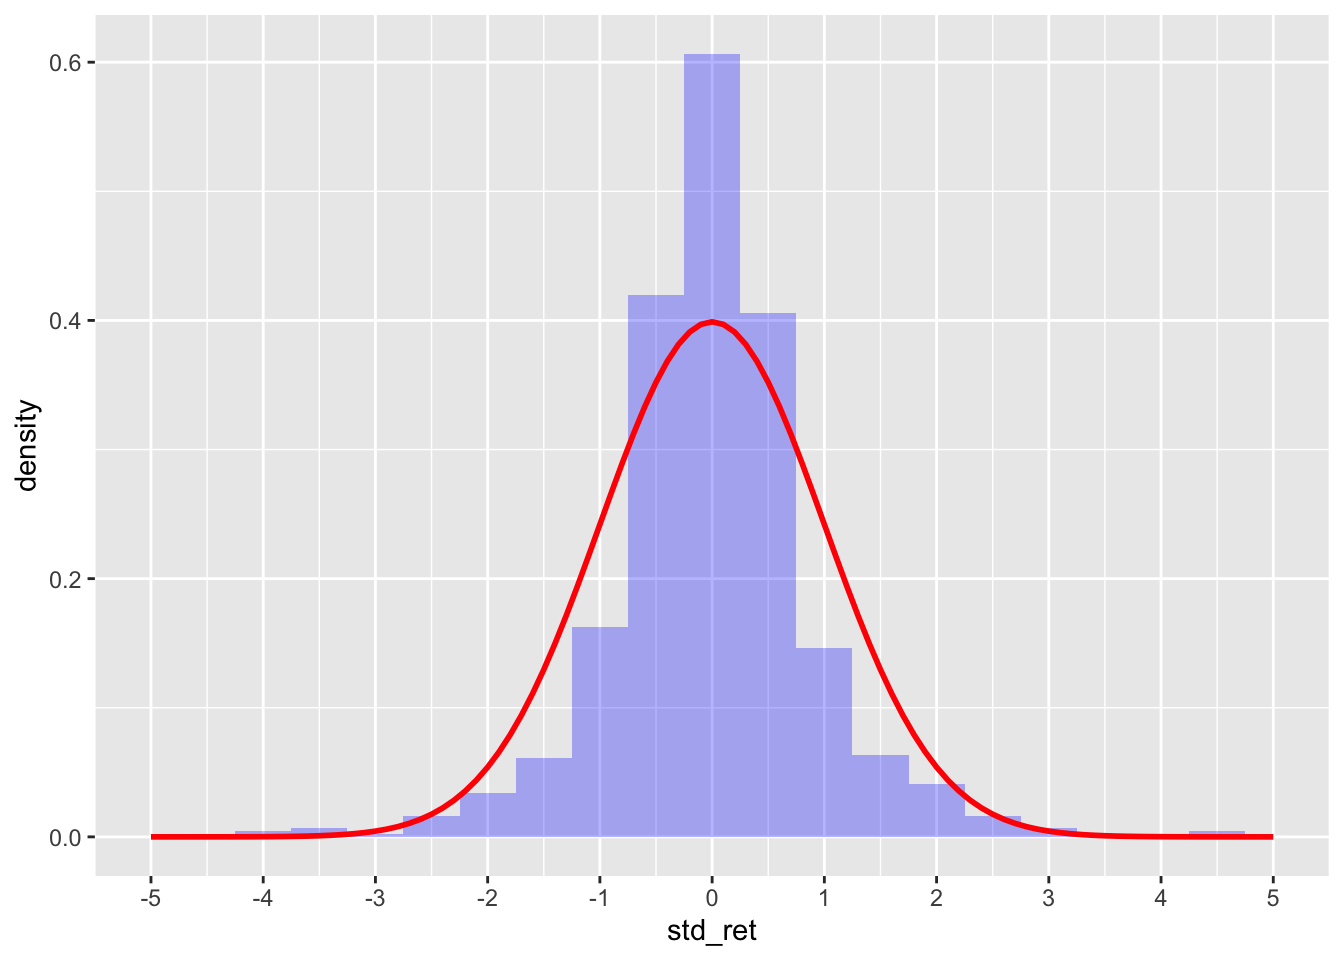
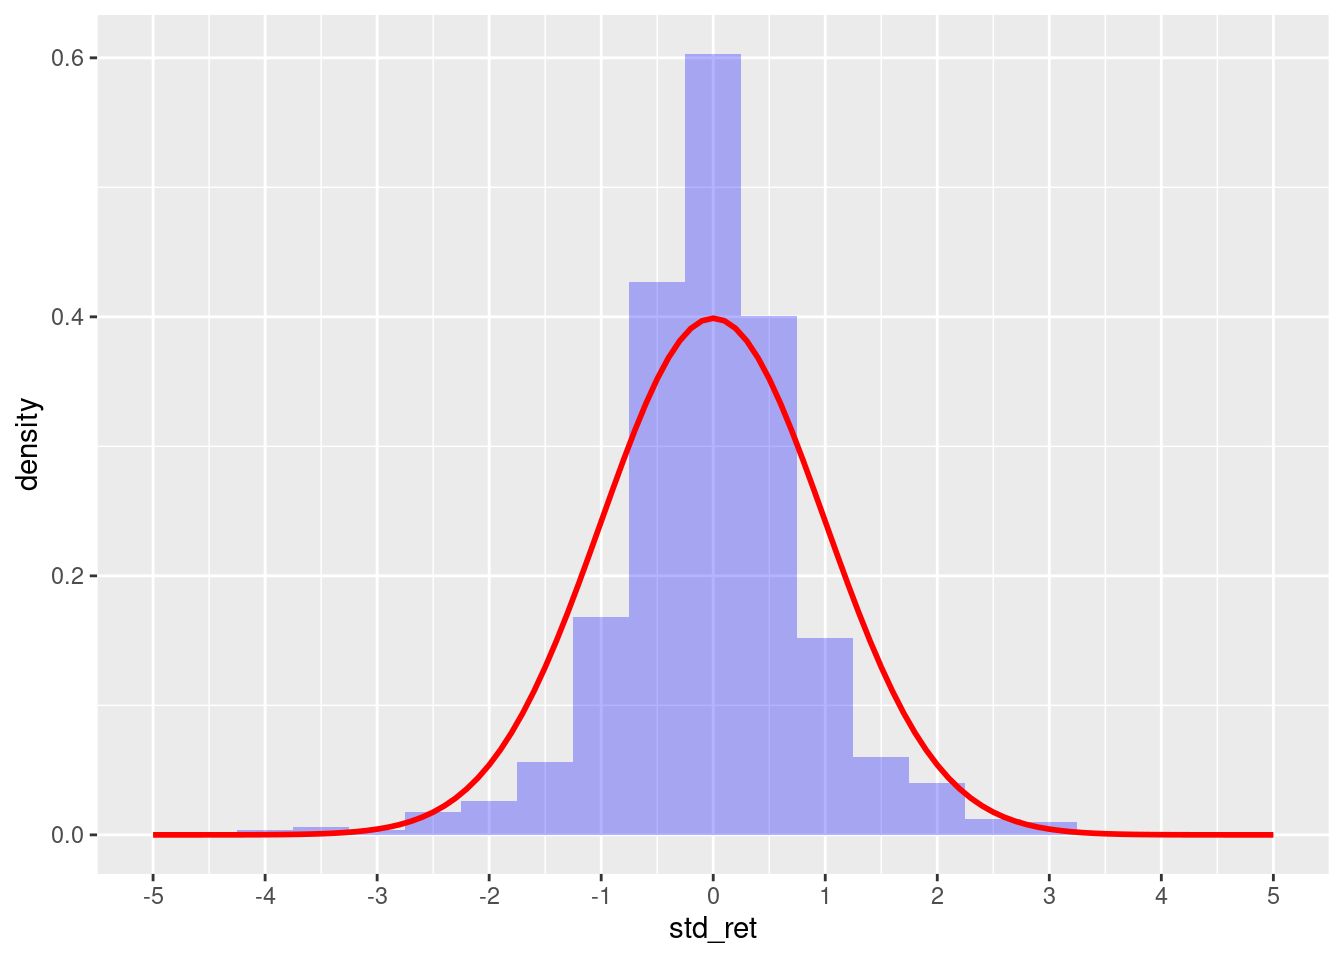
adding a bit on autocorrelation with pacf in R and python

diff --git a/docs/posts/random-behavior-assets/index.html b/docs/posts/random-behavior-assets/index.html
@@ -218,7 +218,10 @@ code span.wa { color: #60a0b0; font-weight: bold; font-style: italic; } /* Warni
   <li><a href="#considering-randomness" id="toc-considering-randomness" class="nav-link" data-scroll-target="#considering-randomness">Considering randomness</a></li>
   <li><a href="#going-to-continuous-time" id="toc-going-to-continuous-time" class="nav-link" data-scroll-target="#going-to-continuous-time">Going to continuous time</a></li>
   </ul></li>
-  <li><a href="#practice-in-r" id="toc-practice-in-r" class="nav-link" data-scroll-target="#practice-in-r">Practice in R</a></li>
+  <li><a href="#practice-in-r" id="toc-practice-in-r" class="nav-link" data-scroll-target="#practice-in-r">Practice in R</a>
+  <ul class="collapse">
+  <li><a href="#the-euler-maruyana-method-to-compute-the-sde" id="toc-the-euler-maruyana-method-to-compute-the-sde" class="nav-link" data-scroll-target="#the-euler-maruyana-method-to-compute-the-sde">The Euler-Maruyana Method to compute the SDE</a></li>
+  </ul></li>
   </ul>
 </nav>
 </nav>
@@ -285,7 +288,7 @@ code span.wa { color: #60a0b0; font-weight: bold; font-style: italic; } /* Warni
 <i class="callout-icon no-icon"></i>
 </div>
 <div class="callout-body-container">
-<p><span id="eq-asset-price3"><span class="math display">\[S_{i+1} = S_i \cdot (1 +  \mu \delta t) + S_i \sigma \phi \delta t^{1/2} \tag{6}\]</span></span></p>
+<p><span id="eq-asset-price3"><span class="math display">\[S_{i+1} = S_i \cdot (1 +  \mu \delta t +  \sigma \phi \sqrt{\delta t}) \tag{6}\]</span></span></p>
 <p>This last <a href="#eq-asset-price3">Equation&nbsp;6</a> is the basis for Monte-Carlo simulation.</p>
 <ul>
 <li>Notice the standard deviation of return: <span class="math inline">\(\sigma \sqrt{\delta t}\)</span></li>
@@ -336,25 +339,27 @@ code span.wa { color: #60a0b0; font-weight: bold; font-style: italic; } /* Warni
 <span id="cb1-4"><a href="#cb1-4" aria-hidden="true" tabindex="-1"></a></span>
 <span id="cb1-5"><a href="#cb1-5" aria-hidden="true" tabindex="-1"></a>df <span class="ot">&lt;-</span> <span class="fu">read_csv</span>(<span class="st">'../../raw_data/SBUX.csv'</span>) <span class="sc">|&gt;</span> </span>
 <span id="cb1-6"><a href="#cb1-6" aria-hidden="true" tabindex="-1"></a>  <span class="fu">select</span>(date, adjClose) <span class="sc">|&gt;</span> </span>
-<span id="cb1-7"><a href="#cb1-7" aria-hidden="true" tabindex="-1"></a>  <span class="fu">filter</span>(date <span class="sc">&gt;</span> <span class="st">'2019-10-01'</span>) <span class="sc">|&gt;</span> <span class="fu">drop_na</span>() <span class="sc">|&gt;</span></span>
+<span id="cb1-7"><a href="#cb1-7" aria-hidden="true" tabindex="-1"></a>  <span class="fu">filter</span>(date <span class="sc">&gt;</span> <span class="st">'2019-07-01'</span>) <span class="sc">|&gt;</span> <span class="fu">drop_na</span>() <span class="sc">|&gt;</span></span>
 <span id="cb1-8"><a href="#cb1-8" aria-hidden="true" tabindex="-1"></a>  <span class="fu">mutate</span>(<span class="at">ret =</span> (adjClose <span class="sc">-</span> <span class="fu">lag</span>(adjClose)) <span class="sc">/</span> <span class="fu">lag</span>(adjClose))</span>
 <span id="cb1-9"><a href="#cb1-9" aria-hidden="true" tabindex="-1"></a></span>
 <span id="cb1-10"><a href="#cb1-10" aria-hidden="true" tabindex="-1"></a>r_bar <span class="ot">=</span> <span class="fu">mean</span>(df<span class="sc">$</span>ret, <span class="at">na.rm =</span> T)</span>
 <span id="cb1-11"><a href="#cb1-11" aria-hidden="true" tabindex="-1"></a>stdev <span class="ot">=</span> <span class="fu">sd</span>(df<span class="sc">$</span>ret, <span class="at">na.rm =</span> T)</span>
 <span id="cb1-12"><a href="#cb1-12" aria-hidden="true" tabindex="-1"></a></span>
-<span id="cb1-13"><a href="#cb1-13" aria-hidden="true" tabindex="-1"></a>mu <span class="ot">=</span> r_bar <span class="sc">/</span> (<span class="dv">1</span><span class="sc">/</span><span class="dv">252</span>)</span>
-<span id="cb1-14"><a href="#cb1-14" aria-hidden="true" tabindex="-1"></a>sigma <span class="ot">=</span> stdev <span class="sc">/</span> <span class="fu">sqrt</span>(<span class="dv">1</span><span class="sc">/</span><span class="dv">252</span>)</span>
-<span id="cb1-15"><a href="#cb1-15" aria-hidden="true" tabindex="-1"></a></span>
-<span id="cb1-16"><a href="#cb1-16" aria-hidden="true" tabindex="-1"></a>r_bar</span></code><button title="Copy to Clipboard" class="code-copy-button"><i class="bi"></i></button></pre></div>
+<span id="cb1-13"><a href="#cb1-13" aria-hidden="true" tabindex="-1"></a>delta_t <span class="ot">=</span> <span class="dv">1</span><span class="sc">/</span><span class="dv">252</span></span>
+<span id="cb1-14"><a href="#cb1-14" aria-hidden="true" tabindex="-1"></a></span>
+<span id="cb1-15"><a href="#cb1-15" aria-hidden="true" tabindex="-1"></a>mu <span class="ot">=</span> r_bar <span class="sc">/</span> delta_t</span>
+<span id="cb1-16"><a href="#cb1-16" aria-hidden="true" tabindex="-1"></a>sigma <span class="ot">=</span> stdev <span class="sc">/</span> <span class="fu">sqrt</span>(delta_t)</span>
+<span id="cb1-17"><a href="#cb1-17" aria-hidden="true" tabindex="-1"></a></span>
+<span id="cb1-18"><a href="#cb1-18" aria-hidden="true" tabindex="-1"></a>r_bar</span></code><button title="Copy to Clipboard" class="code-copy-button"><i class="bi"></i></button></pre></div>
 <div class="cell-output cell-output-stdout">
-<pre><code>[1] -0.0001341147</code></pre>
+<pre><code>[1] -1.073652e-06</code></pre>
 </div>
 <div class="sourceCode cell-code" id="cb3"><pre class="sourceCode r code-with-copy"><code class="sourceCode r"><span id="cb3-1"><a href="#cb3-1" aria-hidden="true" tabindex="-1"></a>stdev</span></code><button title="Copy to Clipboard" class="code-copy-button"><i class="bi"></i></button></pre></div>
 <div class="cell-output cell-output-stdout">
-<pre><code>[1] 0.02133465</code></pre>
+<pre><code>[1] 0.02092624</code></pre>
 </div>
 </div>
-<p>Knowing the average daily return of SBUX over the last 3-ish year and using <span class="math inline">\(\bar{R} = \mu \delta t\)</span> , or <span class="math inline">\(\mu = \frac{\bar{R}}{\delta t}\)</span> and in our case <span class="math inline">\(\delta t = \frac{1}{252}\)</span>; we find the average annualized returns <span class="math inline">\(\mu\)</span> is: -3.38 % with standard deviation <span class="math inline">\(\sigma\)</span> of 33.9 % annualized.</p>
+<p>Knowing the average daily return of SBUX over the last 3-ish year and using <span class="math inline">\(\bar{R} = \mu \delta t\)</span> , or <span class="math inline">\(\mu = \frac{\bar{R}}{\delta t}\)</span> and in our case <span class="math inline">\(\delta t = \frac{1}{252}\)</span>; we find the average annualized returns <span class="math inline">\(\mu\)</span> is: -0.027 % with standard deviation <span class="math inline">\(\sigma\)</span> of 33.2 % annualized.</p>
 <p>We could plot the returns and the std of returns</p>
 <div class="cell">
 <div class="sourceCode cell-code" id="cb5"><pre class="sourceCode r code-with-copy"><code class="sourceCode r"><span id="cb5-1"><a href="#cb5-1" aria-hidden="true" tabindex="-1"></a><span class="fu">library</span>(ggplot2)</span>
@@ -387,8 +392,67 @@ code span.wa { color: #60a0b0; font-weight: bold; font-style: italic; } /* Warni
 </div>
 </div>
 <p>This graph exemplifies what is very common with asset returns: fat tail, and under representation of returns just outside the mean. We discuss this further in our post: <a href="../../posts/normality-returns/index.html">The normality of asset returns</a></p>
+<section id="the-euler-maruyana-method-to-compute-the-sde" class="level2">
+<h2 class="anchored" data-anchor-id="the-euler-maruyana-method-to-compute-the-sde">The Euler-Maruyana Method to compute the SDE</h2>
+<p>We start with <a href="#eq-asset-price3">Equation&nbsp;6</a> : <span class="math inline">\(S_{i+1} = S_i \cdot (1 + \mu \delta t + \sigma \phi \sqrt{\delta t})\)</span></p>
+<div class="cell">
+<div class="sourceCode cell-code" id="cb7"><pre class="sourceCode r code-with-copy"><code class="sourceCode r"><span id="cb7-1"><a href="#cb7-1" aria-hidden="true" tabindex="-1"></a><span class="co"># create one simulation for price </span></span>
+<span id="cb7-2"><a href="#cb7-2" aria-hidden="true" tabindex="-1"></a>ndays <span class="ot">&lt;-</span> <span class="dv">252</span> </span>
+<span id="cb7-3"><a href="#cb7-3" aria-hidden="true" tabindex="-1"></a>price <span class="ot">&lt;-</span> <span class="fu">c</span>()</span>
+<span id="cb7-4"><a href="#cb7-4" aria-hidden="true" tabindex="-1"></a>price[<span class="dv">1</span>] <span class="ot">&lt;-</span> <span class="fu">last</span>(df<span class="sc">$</span>adjClose)</span>
+<span id="cb7-5"><a href="#cb7-5" aria-hidden="true" tabindex="-1"></a></span>
+<span id="cb7-6"><a href="#cb7-6" aria-hidden="true" tabindex="-1"></a>phi <span class="ot">=</span> <span class="fu">rnorm</span>(ndays, <span class="at">mean =</span> <span class="dv">0</span>, <span class="at">sd =</span> <span class="dv">1</span>)</span>
+<span id="cb7-7"><a href="#cb7-7" aria-hidden="true" tabindex="-1"></a></span>
+<span id="cb7-8"><a href="#cb7-8" aria-hidden="true" tabindex="-1"></a><span class="cf">for</span> (i <span class="cf">in</span> <span class="dv">2</span><span class="sc">:</span>ndays){ </span>
+<span id="cb7-9"><a href="#cb7-9" aria-hidden="true" tabindex="-1"></a>  price[i] <span class="ot">=</span> price[i<span class="dv">-1</span>] <span class="sc">*</span> (<span class="dv">1</span> <span class="sc">+</span> mu <span class="sc">*</span> delta_t <span class="sc">+</span> sigma <span class="sc">*</span> phi[i] <span class="sc">*</span> <span class="fu">sqrt</span>(delta_t))</span>
+<span id="cb7-10"><a href="#cb7-10" aria-hidden="true" tabindex="-1"></a>}</span>
+<span id="cb7-11"><a href="#cb7-11" aria-hidden="true" tabindex="-1"></a></span>
+<span id="cb7-12"><a href="#cb7-12" aria-hidden="true" tabindex="-1"></a>yo <span class="ot">&lt;-</span> <span class="fu">tibble</span>(<span class="at">x =</span> <span class="dv">1</span><span class="sc">:</span>ndays, <span class="at">price =</span> price)</span>
+<span id="cb7-13"><a href="#cb7-13" aria-hidden="true" tabindex="-1"></a><span class="fu">ggplot</span>(yo, <span class="fu">aes</span>(x, price)) <span class="sc">+</span> </span>
+<span id="cb7-14"><a href="#cb7-14" aria-hidden="true" tabindex="-1"></a>  <span class="fu">geom_line</span>()</span></code><button title="Copy to Clipboard" class="code-copy-button"><i class="bi"></i></button></pre></div>
+<div class="cell-output-display">
+<p><img src="index_files/figure-html/unnamed-chunk-4-1.png" class="img-fluid" width="672"></p>
+</div>
+</div>
+<p>We can now create 100’s such simulations re-using previous code in a function.</p>
+<div class="cell">
+<div class="sourceCode cell-code" id="cb8"><pre class="sourceCode r code-with-copy"><code class="sourceCode r"><span id="cb8-1"><a href="#cb8-1" aria-hidden="true" tabindex="-1"></a>create_price_simul <span class="ot">&lt;-</span> <span class="cf">function</span>(x) {</span>
+<span id="cb8-2"><a href="#cb8-2" aria-hidden="true" tabindex="-1"></a>  price <span class="ot">&lt;-</span> <span class="fu">c</span>() </span>
+<span id="cb8-3"><a href="#cb8-3" aria-hidden="true" tabindex="-1"></a>  price[<span class="dv">1</span>] <span class="ot">&lt;-</span> <span class="fu">last</span>(df<span class="sc">$</span>adjClose) </span>
+<span id="cb8-4"><a href="#cb8-4" aria-hidden="true" tabindex="-1"></a>  phi <span class="ot">=</span> <span class="fu">rnorm</span>(ndays, <span class="at">mean =</span> <span class="dv">0</span>, <span class="at">sd =</span> <span class="dv">1</span>) </span>
+<span id="cb8-5"><a href="#cb8-5" aria-hidden="true" tabindex="-1"></a>  <span class="cf">for</span> (i <span class="cf">in</span> <span class="dv">2</span><span class="sc">:</span>ndays){ </span>
+<span id="cb8-6"><a href="#cb8-6" aria-hidden="true" tabindex="-1"></a>    price[i] <span class="ot">=</span> price[i<span class="dv">-1</span>] <span class="sc">*</span> (<span class="dv">1</span> <span class="sc">+</span> mu <span class="sc">*</span> delta_t <span class="sc">+</span> sigma <span class="sc">*</span> phi[i] <span class="sc">*</span> <span class="fu">sqrt</span>(delta_t)) </span>
+<span id="cb8-7"><a href="#cb8-7" aria-hidden="true" tabindex="-1"></a>    } </span>
+<span id="cb8-8"><a href="#cb8-8" aria-hidden="true" tabindex="-1"></a>  yo <span class="ot">&lt;-</span> <span class="fu">tibble</span>(<span class="at">x =</span> <span class="dv">1</span><span class="sc">:</span>ndays, <span class="at">price =</span> price)</span>
+<span id="cb8-9"><a href="#cb8-9" aria-hidden="true" tabindex="-1"></a>  <span class="fu">return</span>(yo)</span>
+<span id="cb8-10"><a href="#cb8-10" aria-hidden="true" tabindex="-1"></a>}</span>
+<span id="cb8-11"><a href="#cb8-11" aria-hidden="true" tabindex="-1"></a></span>
+<span id="cb8-12"><a href="#cb8-12" aria-hidden="true" tabindex="-1"></a><span class="fu">library</span>(purrr)      <span class="co"># map()</span></span>
+<span id="cb8-13"><a href="#cb8-13" aria-hidden="true" tabindex="-1"></a><span class="fu">library</span>(RColorBrewer)</span>
+<span id="cb8-14"><a href="#cb8-14" aria-hidden="true" tabindex="-1"></a></span>
+<span id="cb8-15"><a href="#cb8-15" aria-hidden="true" tabindex="-1"></a>num_of_simul <span class="ot">&lt;-</span> <span class="dv">100</span></span>
+<span id="cb8-16"><a href="#cb8-16" aria-hidden="true" tabindex="-1"></a>df1 <span class="ot">&lt;-</span> <span class="fu">tibble</span>(<span class="at">simul_num =</span> <span class="dv">1</span><span class="sc">:</span>num_of_simul) <span class="sc">|&gt;</span> </span>
+<span id="cb8-17"><a href="#cb8-17" aria-hidden="true" tabindex="-1"></a>  <span class="fu">mutate</span>(<span class="at">prices =</span> <span class="fu">map</span>(simul_num, create_price_simul))</span>
+<span id="cb8-18"><a href="#cb8-18" aria-hidden="true" tabindex="-1"></a></span>
+<span id="cb8-19"><a href="#cb8-19" aria-hidden="true" tabindex="-1"></a>yo <span class="ot">&lt;-</span> df1 <span class="sc">|&gt;</span> <span class="fu">unnest</span>(<span class="at">cols =</span> <span class="fu">c</span>(prices))</span>
+<span id="cb8-20"><a href="#cb8-20" aria-hidden="true" tabindex="-1"></a></span>
+<span id="cb8-21"><a href="#cb8-21" aria-hidden="true" tabindex="-1"></a>getPalette <span class="ot">=</span> <span class="fu">colorRampPalette</span>(<span class="fu">brewer.pal</span>(<span class="dv">9</span>, <span class="st">"Set1"</span>))</span>
+<span id="cb8-22"><a href="#cb8-22" aria-hidden="true" tabindex="-1"></a>colourCount <span class="ot">=</span> num_of_simul</span>
+<span id="cb8-23"><a href="#cb8-23" aria-hidden="true" tabindex="-1"></a><span class="fu">ggplot</span>(yo, <span class="fu">aes</span>(x, price, <span class="at">group =</span> simul_num)) <span class="sc">+</span> </span>
+<span id="cb8-24"><a href="#cb8-24" aria-hidden="true" tabindex="-1"></a>  <span class="fu">scale_fill_manual</span>(<span class="at">values =</span> <span class="fu">colorRampPalette</span>(<span class="fu">brewer.pal</span>(<span class="dv">9</span>, <span class="st">"Accent"</span>))(colourCount)) <span class="sc">+</span></span>
+<span id="cb8-25"><a href="#cb8-25" aria-hidden="true" tabindex="-1"></a>  <span class="fu">geom_line</span>(<span class="fu">aes</span>(<span class="at">color =</span> simul_num)) <span class="sc">+</span> </span>
+<span id="cb8-26"><a href="#cb8-26" aria-hidden="true" tabindex="-1"></a>  <span class="fu">theme</span>(<span class="at">legend.position =</span> <span class="st">'none'</span>)</span></code><button title="Copy to Clipboard" class="code-copy-button"><i class="bi"></i></button></pre></div>
+<div class="cell-output cell-output-stderr">
+<pre><code>Warning in brewer.pal(9, "Accent"): n too large, allowed maximum for palette Accent is 8
+Returning the palette you asked for with that many colors</code></pre>
+</div>
+<div class="cell-output-display">
+<p><img src="index_files/figure-html/unnamed-chunk-5-1.png" class="img-fluid" width="672"></p>
+</div>
+</div>
 
 
+</section>
 </section>
 
 </main> <!-- /main -->
